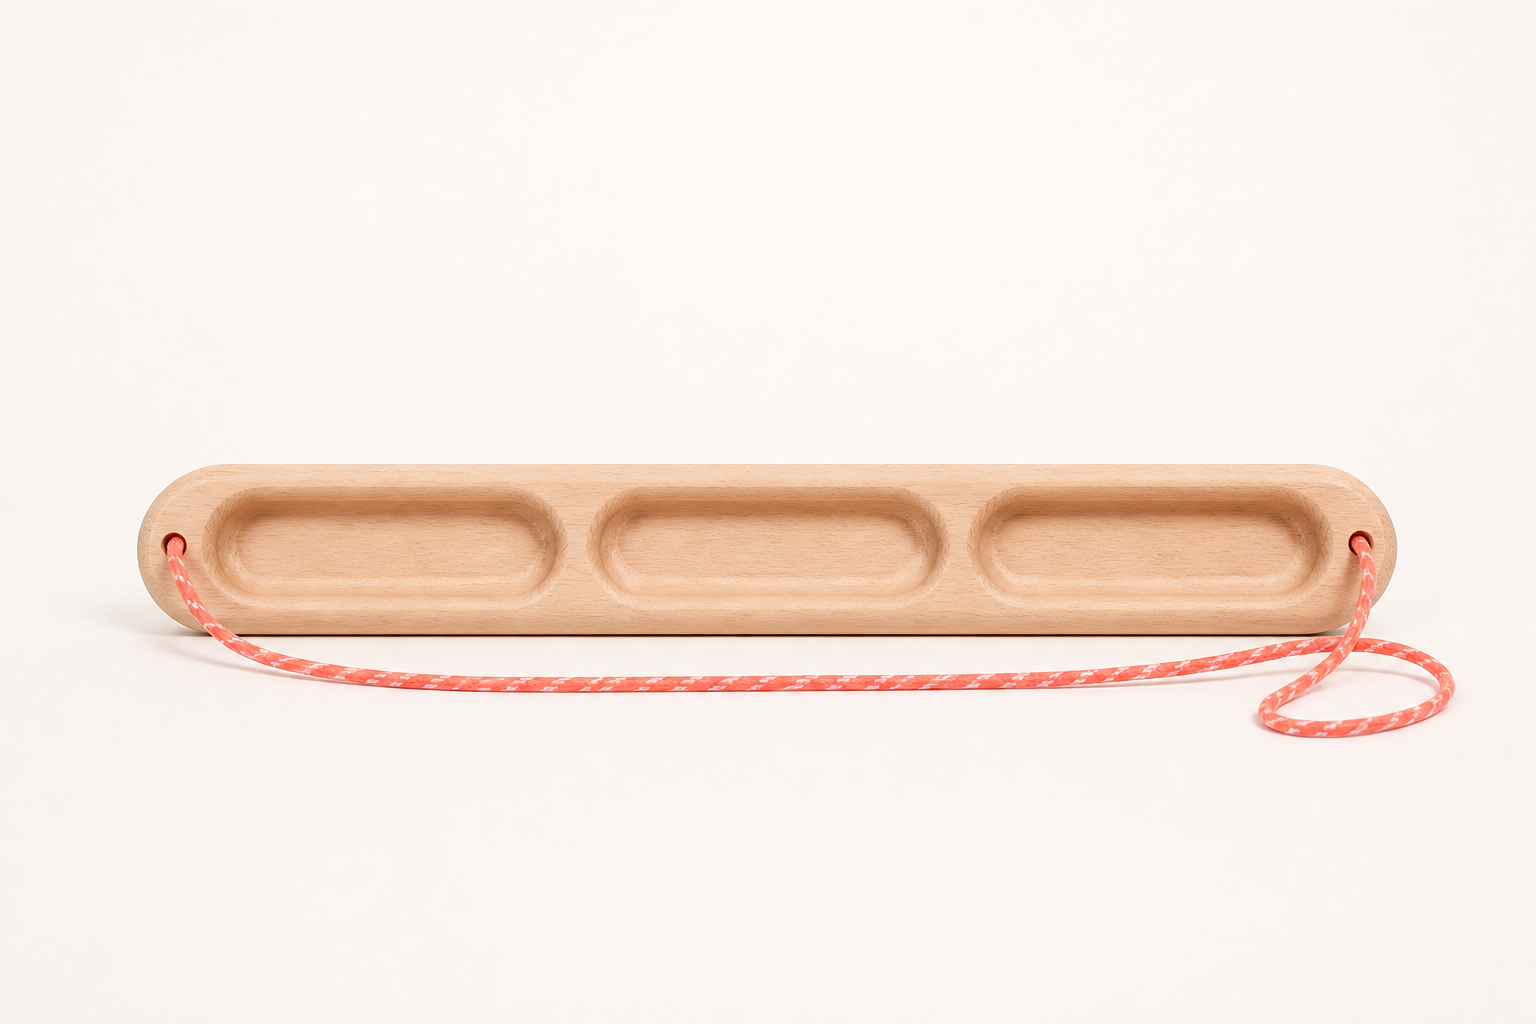
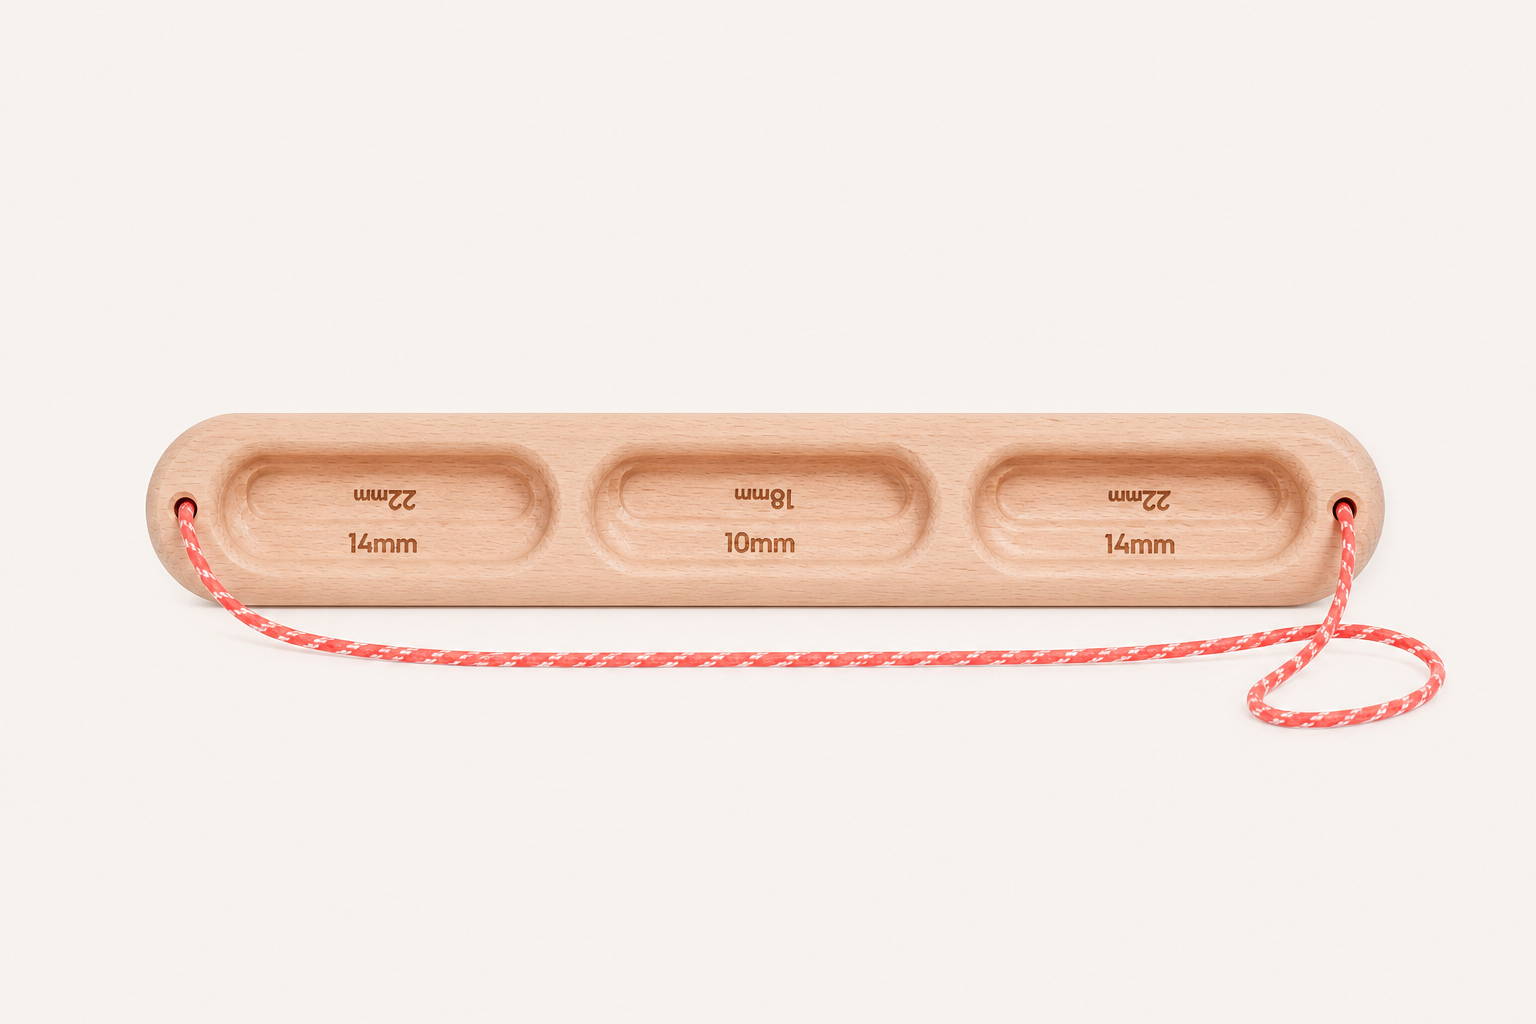
Repair Crimptonite Helium Mobile presentations

Changed region(s): [[0.0625, 0.4062, 0.9688, 0.7188]]

diff --git a/docs/source-audits/2026-08-30-hangboard-presentation-remediation.md b/docs/source-audits/2026-08-30-hangboard-presentation-remediation.md
@@ -579,3 +579,95 @@ This source-backed correction accepts all four presentations together as
 no-ops under the user's material, published-likeness, head-on, and uniform
 smoothing requirements; the schema-2 machine manifest is intentionally not
 updated in this bounded pass.
+
+## Crimptonite Helium Mobile four-position repair (2026-08-31)
+
+The complete Helium Mobile was freshly re-researched and repaired as one
+atomic two-surface, four-position product on 2026-08-31. Crimptonite's current
+page identifies a 400 x 58 x 24 mm, approximately 125 g wooden mobile board
+with 14 mm, 22 mm, 10/18 mm center edges, a top jug, and a back usable as a
+jug or sloper. Its current gallery publishes the front, back, and end profile.
+The 9c Bouldering listing independently publishes the same front/back product,
+dimensions, four edge sizes, suspension system, and back jug/sloper use. Its
+customer review independently reports that the edge angle changes with the
+hang configuration. The front engravings themselves establish the mutually
+exclusive rotations: 14/10 mm read upright in one position and 22/18 mm read
+upright after a 180-degree rotation. The published end profile and broad back
+face establish the two opposite rear-edge treatments: rounded/sloping edge
+upright and sharper jug edge after inversion.
+
+Freshly opened evidence:
+
+- Crimptonite official product page:
+  <https://crimptonite.com/product/helium-mobile/>
+- Current official front, back, and end-profile gallery inputs:
+  <https://crimptonite.com/wp-content/uploads/2026/01/DSCF6544-1.jpg>,
+  <https://crimptonite.com/wp-content/uploads/2026/01/DSCF6545-1.jpg>, and
+  <https://crimptonite.com/wp-content/uploads/2026/01/DSCF6546-1.jpg>.
+- 9c Bouldering independent listing, gallery, and customer image/review:
+  <https://9cbouldering.com/products/helium-mobile-hangboard>,
+  <https://9cbouldering.com/cdn/shop/products/Helium--mobile-hangboard-by-Crimptonite_06.jpg?v=1704979580>,
+  <https://9cbouldering.com/cdn/shop/products/Helium--mobile-hangboard-by-Crimptonite_08.jpg?v=1704979580>, and
+  the listing's `_05`, `_07`, and `_09` published gallery views at the same
+  CDN/version.
+
+The two inherited candidate renders were generated before this geometry
+takeover from the following explicit prompts and published inputs:
+
+- Reverse call 1 used official `DSCF6545` back, official `DSCF6544` front,
+  and the old primary/reverse assets: `strict 3:2 straight-on orthographic
+  back working face; broad face parallel to image plane; horizontal parallel
+  long edges; equal ends/holes; no visible thickness/foreshortening; exact
+  pill pale-beech silhouette; exactly 2 far-end cord holes; authentic centered
+  Cr+IMPTONITE laser mark; red-white cord below; #F6F2EA; no recesses/extra
+  topology/angle/props.`
+- Front call 2 used official `DSCF6544`, the independent 9c product image, the
+  old primary, and the accepted reverse: `strict 3:2 straight-on orthographic
+  front; exact pill silhouette, exactly 3 equal rounded nested-depth recesses,
+  exactly 2 holes, red-white cord; authentic labels L 22mm upside-down + 14mm
+  upright, C 18mm upside-down + 10mm upright, R 22mm upside-down + 14mm
+  upright; #F6F2EA; no angle/thickness/extra topology.`
+
+Both accepted canonical assets are 1536 x 1024, 8-bit RGB PNGs. They preserve
+the source-published pale beech, pill silhouette, three front recesses, two
+end holes, engraved depth labels/logo, and red-white cord. Both are strictly
+head-on to their own working plane: their long axes and long edges are
+horizontal, their ends and holes are bilaterally matched, and neither exposes
+perspective thickness or foreshortening. They share the same off-white studio
+field, pale-beech grain, soft recess lighting, edge softness, and smoothing.
+No raster mutation was made during the geometry takeover. The two additional
+assets are exact, non-interpolated 180-degree pixel rotations of their
+canonical sources; a decoded-pixel comparison verified every RGBA sample at
+`(x, y)` against `(width - 1 - x, height - 1 - y)`.
+
+| Presentation | Asset | Canonical hold inventory | Old SHA-256 | New SHA-256 | Dimensions | Result |
+| --- | --- | --- | --- | --- | --- | --- |
[4 lines of base64/hex data omitted]
+
+The checked-in orientation-alias schema and Tension Flash package precedent
+allow each inverted presentation to reuse one canonical surface and its stable
+physical hold IDs. This avoids duplicating physical contacts while rotating
+the canonical render, highlight, and hit-testing path in both Workbench and the
+app. The former reverse `back-jug-sloper` path retained its stable hold ID,
+kind, treatment, equipment object, and single-piece inventory. Its stale
+oblique frame `(0.178, 0.406, 0.648, 0.176)` and diagonally biased seven-curve
+outline were deliberately replaced with frame `(0.178, 0.412, 0.648, 0.156)`
+and a symmetric horizontal four-corner path (four lines, four cubic rounded
+corners, close). An operator-selected `roundedRectangle` constraint at zero
+degrees records the genuinely regular contact; the saved path remains the
+rendering and hit-testing truth. All seven front pieces are byte-for-byte
+unchanged within `board.json`. The board hash changed from
[2 lines of base64/hex data omitted]
+
+Workbench loaded and visually inspected all four presentation IDs. Normal and
+all-active captures passed independently. `primary` and `front-inverted` each
+rendered all 7 front pieces; `reverse` and `reverse-inverted` each rendered the
+single horizontal back piece. All-active counts were 7, 7, 1, and 1. Every one
+of the 16 presentation-scoped path checks was clicked individually and became
+the sole selected hit target. The inverted bounds were the expected 180-degree
+counterparts of their canonical paths. Final-inventory package validation and
+package status completed successfully with 61 packages and no drafts.
